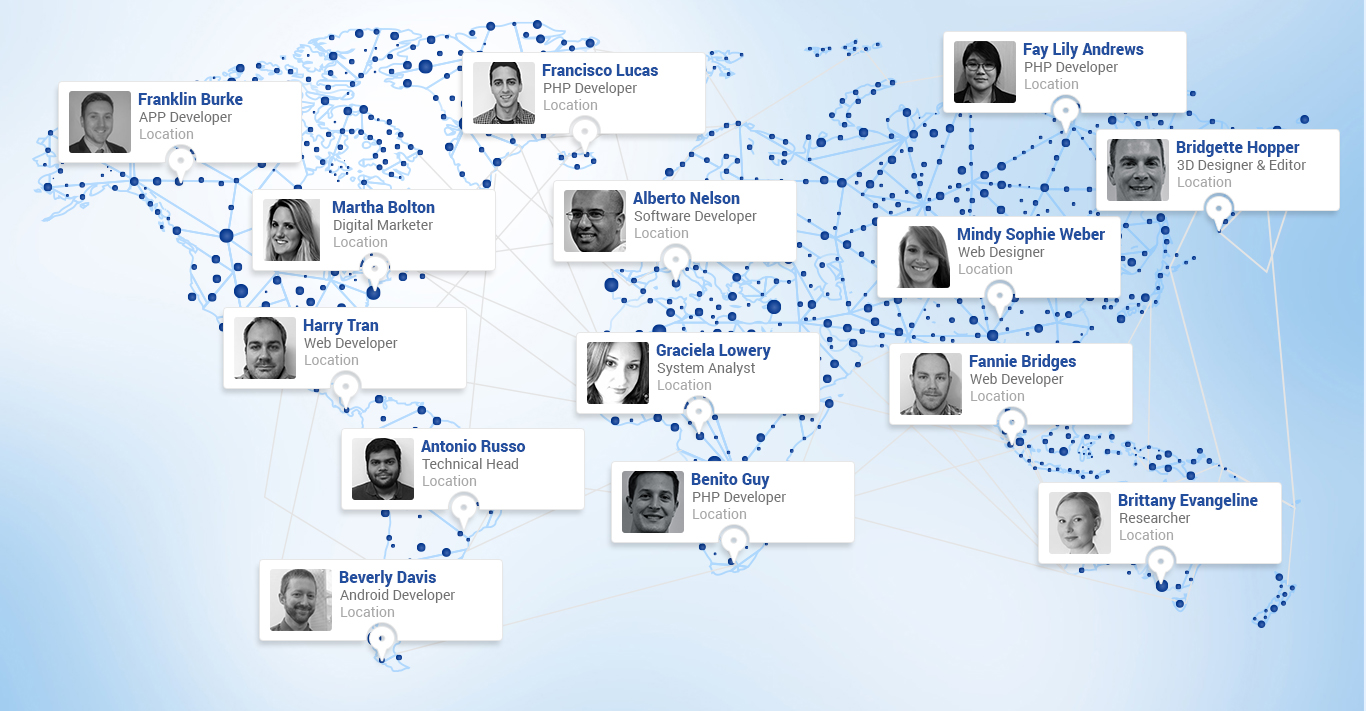
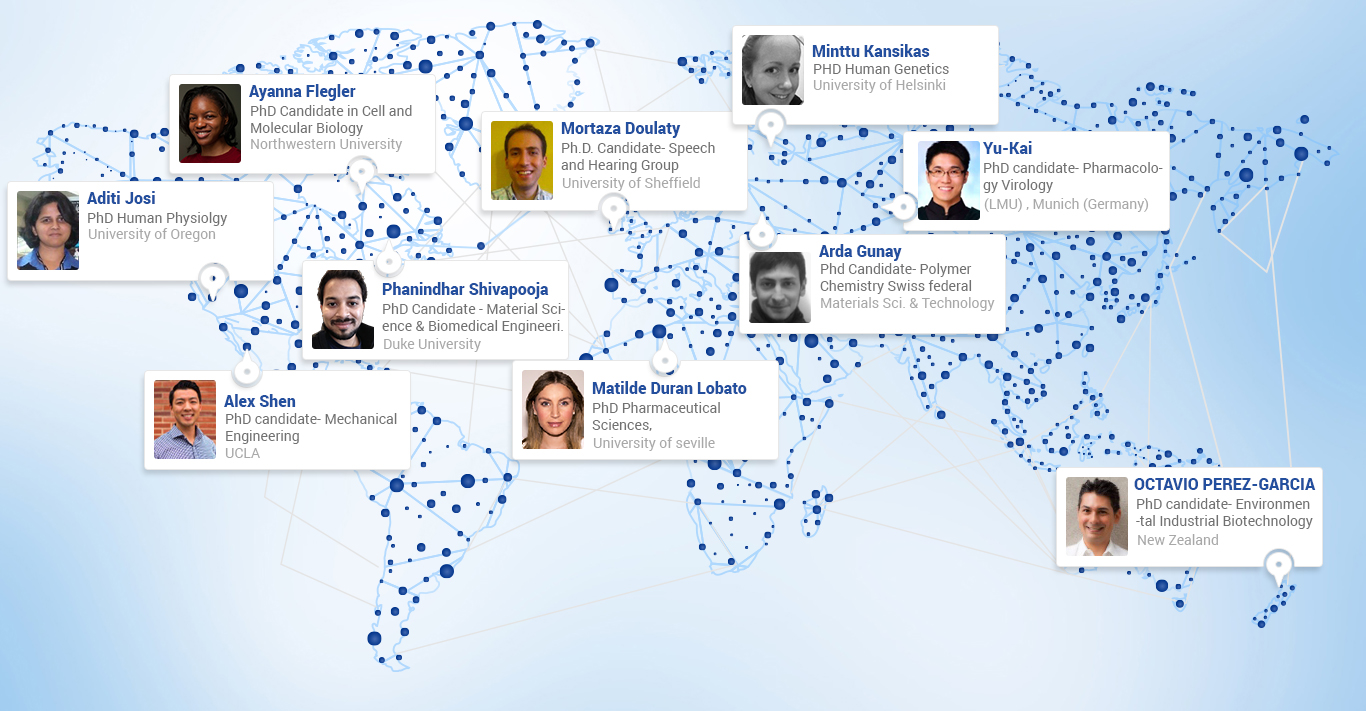
Scholar map
Scholar map image changed as per feedback

Changed region(s): [[0.0, 0.0309, 0.9839, 0.8045], [0.7379, 0.6498, 0.9839, 0.8354], [0.1845, 0.7736, 0.369, 0.9283]]

diff --git a/index.html b/index.html
@@ -673,7 +673,7 @@ Our clients value the unbiased insights and creative out-of the box thinking tha
             </div>
         <div class="owl-carousel122">
            <!-- <div class="item" style="background-image: url(images/schoular.jpg);">-->
-              <div class="item" style="background-image: url(images/scholars-map-1.jpg);"> 
+              <div class="item" style="background-image: url(images/schoular.jpg);"> 
                
                     <div class="container">
                          
@@ -1118,7 +1118,8 @@ End New Design -->
     <script src="js/main.js"></script>
 	<script>	
 		$(document).ready(function(){
-            setTimeout(function(){$( "#all_partners" ).trigger( "click" );}, 2000);
+            setTimeout(function(){$( "#all_partners" ).trigger( "click" );}, 1000);
+     
 		});
     
 	</script>
